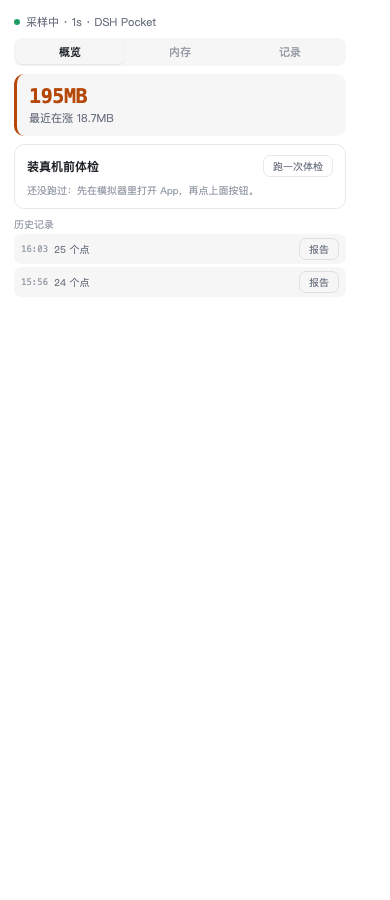
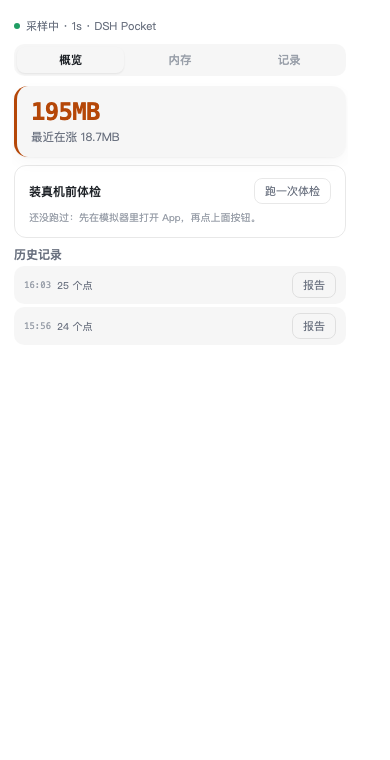
style(panel): 间距/圆角/字号统一
- 根容器 padding 6px、区块间距 10px
- 结论卡：圆角 14、内边距 12×14、数值 24px、加一层很轻的阴影
- 分段控件：圆角 10、内衬 3px，按钮圆角 8
- 统计格 10、记录行 10、小按钮圆角 8
- 历史记录标题从 10px 灰字改成 12px 半粗

diff --git a/client.js b/client.js
@@ -544,7 +544,7 @@ window.__ModuleLoader__.load({
 
       var SMALL_BTN = {
         appearance: "none", border: "1px solid " + BORDER, background: BG1, color: FG2,
-        fontSize: 10, borderRadius: 7, padding: "3px 9px", cursor: "pointer"
+        fontSize: 11, borderRadius: 8, padding: "4px 10px", cursor: "pointer"
       };
 
       var STATUS_COLOR = { pass: "#1f9d63", warn: "#c78500", fail: DANGER, unknown: FG3 };
@@ -556,12 +556,13 @@ window.__ModuleLoader__.load({
         return e("div", { style: { display: "flex", flexDirection: "column", gap: 8 } },
 
           props.verdict
-            ? e("div", { style: { background: BG2, borderRadius: 10, padding: "10px 12px", borderLeft: "3px solid " + props.verdict.color } },
-              e("div", { style: { fontSize: 20, fontWeight: 700, fontFamily: MONO, color: props.verdict.color, letterSpacing: "-0.02em" } }, props.verdict.value),
-              e("div", { style: { fontSize: 11, color: FG2, marginTop: 2 } }, props.verdict.text))
+            ? e("div", { style: { background: BG2, borderRadius: 14, padding: "12px 14px", borderLeft: "3px solid " + props.verdict.color,
+                boxShadow: "0 1px 2px rgba(0,0,0,.04), 0 6px 16px rgba(0,0,0,.03)" } },
+              e("div", { style: { fontSize: 24, fontWeight: 700, fontFamily: MONO, color: props.verdict.color, letterSpacing: "-0.03em" } }, props.verdict.value),
+              e("div", { style: { fontSize: 11.5, color: FG2, marginTop: 3 } }, props.verdict.text))
             : e("div", { style: { fontSize: 11, color: FG3, lineHeight: 1.7, background: BG2, borderRadius: 10, padding: "10px 12px" } }, t("panel.overview.empty")),
 
-          e("div", { style: { border: "1px solid " + BORDER, borderRadius: 10, padding: "10px 12px", background: BG1 } },
+          e("div", { style: { border: "1px solid " + BORDER, borderRadius: 12, padding: "12px 14px", background: BG1 } },
             e("div", { style: { display: "flex", alignItems: "center", gap: 6 } },
               e("span", { style: { fontSize: 12, fontWeight: 600 } }, t("panel.preflight.title")),
               e("span", { style: { flex: 1 } }),
@@ -582,9 +583,9 @@ window.__ModuleLoader__.load({
 
           props.runs && props.runs.length
             ? e("div", { style: { display: "flex", flexDirection: "column", gap: 3 } },
-              e("div", { style: { fontSize: 10, color: FG3 } }, t("panel.records.title")),
+              e("div", { style: { fontSize: 12, fontWeight: 600, color: FG2 } }, t("panel.records.title")),
               props.runs.slice(0, 3).map(function (run) {
-                return e("div", { key: run.runId, style: { display: "flex", alignItems: "center", gap: 6, background: BG2, borderRadius: 7, padding: "4px 7px" } },
+                return e("div", { key: run.runId, style: { display: "flex", alignItems: "center", gap: 6, background: BG2, borderRadius: 10, padding: "6px 10px" } },
                   e("span", { style: { fontSize: 9, fontFamily: MONO, color: FG3 } }, props.clock(run.from)),
                   e("span", { style: { fontSize: 10, color: FG2, flex: 1 } }, run.events + " " + t("panel.records.points")),
                   e("button", { onClick: function () { props.onReport(run); }, style: SMALL_BTN }, t("panel.records.open")));
@@ -603,7 +604,7 @@ window.__ModuleLoader__.load({
           props.runs.length === 0
             ? e("div", { style: { fontSize: 11, color: FG3, lineHeight: 1.6, padding: "8px 2px" } }, t("panel.records.empty"))
             : props.runs.filter(function (run) { return run.events > 0; }).map(function (run) {
-              return e("div", { key: run.runId, style: { display: "flex", alignItems: "center", gap: 6, background: BG2, borderRadius: 8, padding: "5px 8px" } },
+              return e("div", { key: run.runId, style: { display: "flex", alignItems: "center", gap: 6, background: BG2, borderRadius: 10, padding: "7px 10px" } },
                 e("span", { style: { fontSize: 10, fontFamily: MONO, color: FG3, flex: "0 0 auto" } }, props.clock(run.from)),
                 e("span", { style: { fontSize: 11, color: FG, flex: "0 0 auto" } }, run.mode === "trace" ? "回放" : "采样"),
                 e("span", { style: { fontSize: 10, color: FG3, flex: 1 } }, run.events + " " + t("panel.records.points") + (run.hasReport ? " · 有报告" : "")),
@@ -913,7 +914,7 @@ window.__ModuleLoader__.load({
           };
         };
 
-        return e("div", { style: { display: "flex", flexDirection: "column", gap: 8, padding: "2px 2px 12px", color: FG, minWidth: 0, width: "100%", boxSizing: "border-box", overflowX: "hidden" } },
+        return e("div", { style: { display: "flex", flexDirection: "column", gap: 10, padding: "6px 2px 16px", color: FG, minWidth: 0, width: "100%", boxSizing: "border-box", overflowX: "hidden" } },
 
           e("div", { style: { display: "flex", alignItems: "center", gap: 6 } },
             e("span", { style: { width: 6, height: 6, borderRadius: 99, background: running ? "#1f9d63" : FG3 } }),
@@ -921,15 +922,15 @@ window.__ModuleLoader__.load({
             e("span", { style: { flex: 1 } })
           ),
 
-          e("div", { style: { display: "flex", gap: 2, background: BG2, borderRadius: 8, padding: 2 } },
+          e("div", { style: { display: "flex", gap: 2, background: BG2, borderRadius: 10, padding: 3 } },
             ["overview", "memory", "records"].map(function (key) {
               var active = view === key;
               return e("button", {
                 key: key,
                 onClick: function () { setView(key); },
                 style: {
-                  flex: 1, appearance: "none", border: 0, borderRadius: 6, padding: "4px 0",
-                  fontSize: 11, fontWeight: active ? 650 : 500, cursor: "pointer",
+                  flex: 1, appearance: "none", border: 0, borderRadius: 8, padding: "5px 0",
+                  fontSize: 11.5, fontWeight: active ? 650 : 500, cursor: "pointer",
                   background: active ? BG1 : "transparent", color: active ? FG : FG3,
                   boxShadow: active ? "0 1px 2px rgba(0,0,0,.08)" : "none"
                 }
@@ -1005,7 +1006,7 @@ window.__ModuleLoader__.load({
               ) : null
             ),
 
-          e("div", { style: { display: "grid", gridTemplateColumns: "repeat(4, minmax(0, 1fr))", gap: 4 } },
+          e("div", { style: { display: "grid", gridTemplateColumns: "repeat(4, minmax(0, 1fr))", gap: 6 } },
             statCell(t("panel.current"), windowStats ? fmtMB(windowStats.current) : "—", FG),
             statCell(t("panel.peak"), windowStats ? fmtMB(windowStats.peak) : "—", FG),
             statCell(t("panel.delta"), windowStats ? (windowStats.delta >= 0 ? "+" : "") + fmtMB(windowStats.delta) : "—", windowStats && windowStats.delta > 0 ? WARN : "#1f9d63"),
@@ -1103,7 +1104,7 @@ window.__ModuleLoader__.load({
       }
 
       function statCell(label, value, color) {
-        return e("div", { style: { background: BG2, borderRadius: 8, padding: "5px 7px", minWidth: 0, boxSizing: "border-box", overflow: "hidden" } },
+        return e("div", { style: { background: BG2, borderRadius: 10, padding: "6px 8px", minWidth: 0, boxSizing: "border-box", overflow: "hidden" } },
           e("div", { style: { fontSize: 9, color: FG3, marginBottom: 1, whiteSpace: "nowrap" } }, label),
           e("div", { style: { fontSize: 12, fontWeight: 650, fontFamily: MONO, color: color || FG, whiteSpace: "nowrap", overflow: "hidden", textOverflow: "ellipsis" } }, value)
         );

diff --git a/client/40-panel.js b/client/40-panel.js
@@ -5,7 +5,7 @@
 
   var SMALL_BTN = {
     appearance: "none", border: "1px solid " + BORDER, background: BG1, color: FG2,
-    fontSize: 10, borderRadius: 7, padding: "3px 9px", cursor: "pointer"
+    fontSize: 11, borderRadius: 8, padding: "4px 10px", cursor: "pointer"
   };
 
   var STATUS_COLOR = { pass: "#1f9d63", warn: "#c78500", fail: DANGER, unknown: FG3 };
@@ -17,12 +17,13 @@
     return e("div", { style: { display: "flex", flexDirection: "column", gap: 8 } },
 
       props.verdict
-        ? e("div", { style: { background: BG2, borderRadius: 10, padding: "10px 12px", borderLeft: "3px solid " + props.verdict.color } },
-          e("div", { style: { fontSize: 20, fontWeight: 700, fontFamily: MONO, color: props.verdict.color, letterSpacing: "-0.02em" } }, props.verdict.value),
-          e("div", { style: { fontSize: 11, color: FG2, marginTop: 2 } }, props.verdict.text))
+        ? e("div", { style: { background: BG2, borderRadius: 14, padding: "12px 14px", borderLeft: "3px solid " + props.verdict.color,
+            boxShadow: "0 1px 2px rgba(0,0,0,.04), 0 6px 16px rgba(0,0,0,.03)" } },
+          e("div", { style: { fontSize: 24, fontWeight: 700, fontFamily: MONO, color: props.verdict.color, letterSpacing: "-0.03em" } }, props.verdict.value),
+          e("div", { style: { fontSize: 11.5, color: FG2, marginTop: 3 } }, props.verdict.text))
         : e("div", { style: { fontSize: 11, color: FG3, lineHeight: 1.7, background: BG2, borderRadius: 10, padding: "10px 12px" } }, t("panel.overview.empty")),
 
-      e("div", { style: { border: "1px solid " + BORDER, borderRadius: 10, padding: "10px 12px", background: BG1 } },
+      e("div", { style: { border: "1px solid " + BORDER, borderRadius: 12, padding: "12px 14px", background: BG1 } },
         e("div", { style: { display: "flex", alignItems: "center", gap: 6 } },
           e("span", { style: { fontSize: 12, fontWeight: 600 } }, t("panel.preflight.title")),
           e("span", { style: { flex: 1 } }),
@@ -43,9 +44,9 @@
 
       props.runs && props.runs.length
         ? e("div", { style: { display: "flex", flexDirection: "column", gap: 3 } },
-          e("div", { style: { fontSize: 10, color: FG3 } }, t("panel.records.title")),
+          e("div", { style: { fontSize: 12, fontWeight: 600, color: FG2 } }, t("panel.records.title")),
           props.runs.slice(0, 3).map(function (run) {
-            return e("div", { key: run.runId, style: { display: "flex", alignItems: "center", gap: 6, background: BG2, borderRadius: 7, padding: "4px 7px" } },
+            return e("div", { key: run.runId, style: { display: "flex", alignItems: "center", gap: 6, background: BG2, borderRadius: 10, padding: "6px 10px" } },
               e("span", { style: { fontSize: 9, fontFamily: MONO, color: FG3 } }, props.clock(run.from)),
               e("span", { style: { fontSize: 10, color: FG2, flex: 1 } }, run.events + " " + t("panel.records.points")),
               e("button", { onClick: function () { props.onReport(run); }, style: SMALL_BTN }, t("panel.records.open")));
@@ -64,7 +65,7 @@
       props.runs.length === 0
         ? e("div", { style: { fontSize: 11, color: FG3, lineHeight: 1.6, padding: "8px 2px" } }, t("panel.records.empty"))
         : props.runs.filter(function (run) { return run.events > 0; }).map(function (run) {
-          return e("div", { key: run.runId, style: { display: "flex", alignItems: "center", gap: 6, background: BG2, borderRadius: 8, padding: "5px 8px" } },
+          return e("div", { key: run.runId, style: { display: "flex", alignItems: "center", gap: 6, background: BG2, borderRadius: 10, padding: "7px 10px" } },
             e("span", { style: { fontSize: 10, fontFamily: MONO, color: FG3, flex: "0 0 auto" } }, props.clock(run.from)),
             e("span", { style: { fontSize: 11, color: FG, flex: "0 0 auto" } }, run.mode === "trace" ? "回放" : "采样"),
             e("span", { style: { fontSize: 10, color: FG3, flex: 1 } }, run.events + " " + t("panel.records.points") + (run.hasReport ? " · 有报告" : "")),
@@ -374,7 +375,7 @@
       };
     };
 
-    return e("div", { style: { display: "flex", flexDirection: "column", gap: 8, padding: "2px 2px 12px", color: FG, minWidth: 0, width: "100%", boxSizing: "border-box", overflowX: "hidden" } },
+    return e("div", { style: { display: "flex", flexDirection: "column", gap: 10, padding: "6px 2px 16px", color: FG, minWidth: 0, width: "100%", boxSizing: "border-box", overflowX: "hidden" } },
 
       e("div", { style: { display: "flex", alignItems: "center", gap: 6 } },
         e("span", { style: { width: 6, height: 6, borderRadius: 99, background: running ? "#1f9d63" : FG3 } }),
@@ -382,15 +383,15 @@
         e("span", { style: { flex: 1 } })
       ),
 
-      e("div", { style: { display: "flex", gap: 2, background: BG2, borderRadius: 8, padding: 2 } },
+      e("div", { style: { display: "flex", gap: 2, background: BG2, borderRadius: 10, padding: 3 } },
         ["overview", "memory", "records"].map(function (key) {
           var active = view === key;
           return e("button", {
             key: key,
             onClick: function () { setView(key); },
             style: {
-              flex: 1, appearance: "none", border: 0, borderRadius: 6, padding: "4px 0",
-              fontSize: 11, fontWeight: active ? 650 : 500, cursor: "pointer",
+              flex: 1, appearance: "none", border: 0, borderRadius: 8, padding: "5px 0",
+              fontSize: 11.5, fontWeight: active ? 650 : 500, cursor: "pointer",
               background: active ? BG1 : "transparent", color: active ? FG : FG3,
               boxShadow: active ? "0 1px 2px rgba(0,0,0,.08)" : "none"
             }
@@ -466,7 +467,7 @@
           ) : null
         ),
 
-      e("div", { style: { display: "grid", gridTemplateColumns: "repeat(4, minmax(0, 1fr))", gap: 4 } },
+      e("div", { style: { display: "grid", gridTemplateColumns: "repeat(4, minmax(0, 1fr))", gap: 6 } },
         statCell(t("panel.current"), windowStats ? fmtMB(windowStats.current) : "—", FG),
         statCell(t("panel.peak"), windowStats ? fmtMB(windowStats.peak) : "—", FG),
         statCell(t("panel.delta"), windowStats ? (windowStats.delta >= 0 ? "+" : "") + fmtMB(windowStats.delta) : "—", windowStats && windowStats.delta > 0 ? WARN : "#1f9d63"),
@@ -564,7 +565,7 @@
   }
 
   function statCell(label, value, color) {
-    return e("div", { style: { background: BG2, borderRadius: 8, padding: "5px 7px", minWidth: 0, boxSizing: "border-box", overflow: "hidden" } },
+    return e("div", { style: { background: BG2, borderRadius: 10, padding: "6px 8px", minWidth: 0, boxSizing: "border-box", overflow: "hidden" } },
       e("div", { style: { fontSize: 9, color: FG3, marginBottom: 1, whiteSpace: "nowrap" } }, label),
       e("div", { style: { fontSize: 12, fontWeight: 650, fontFamily: MONO, color: color || FG, whiteSpace: "nowrap", overflow: "hidden", textOverflow: "ellipsis" } }, value)
     );
